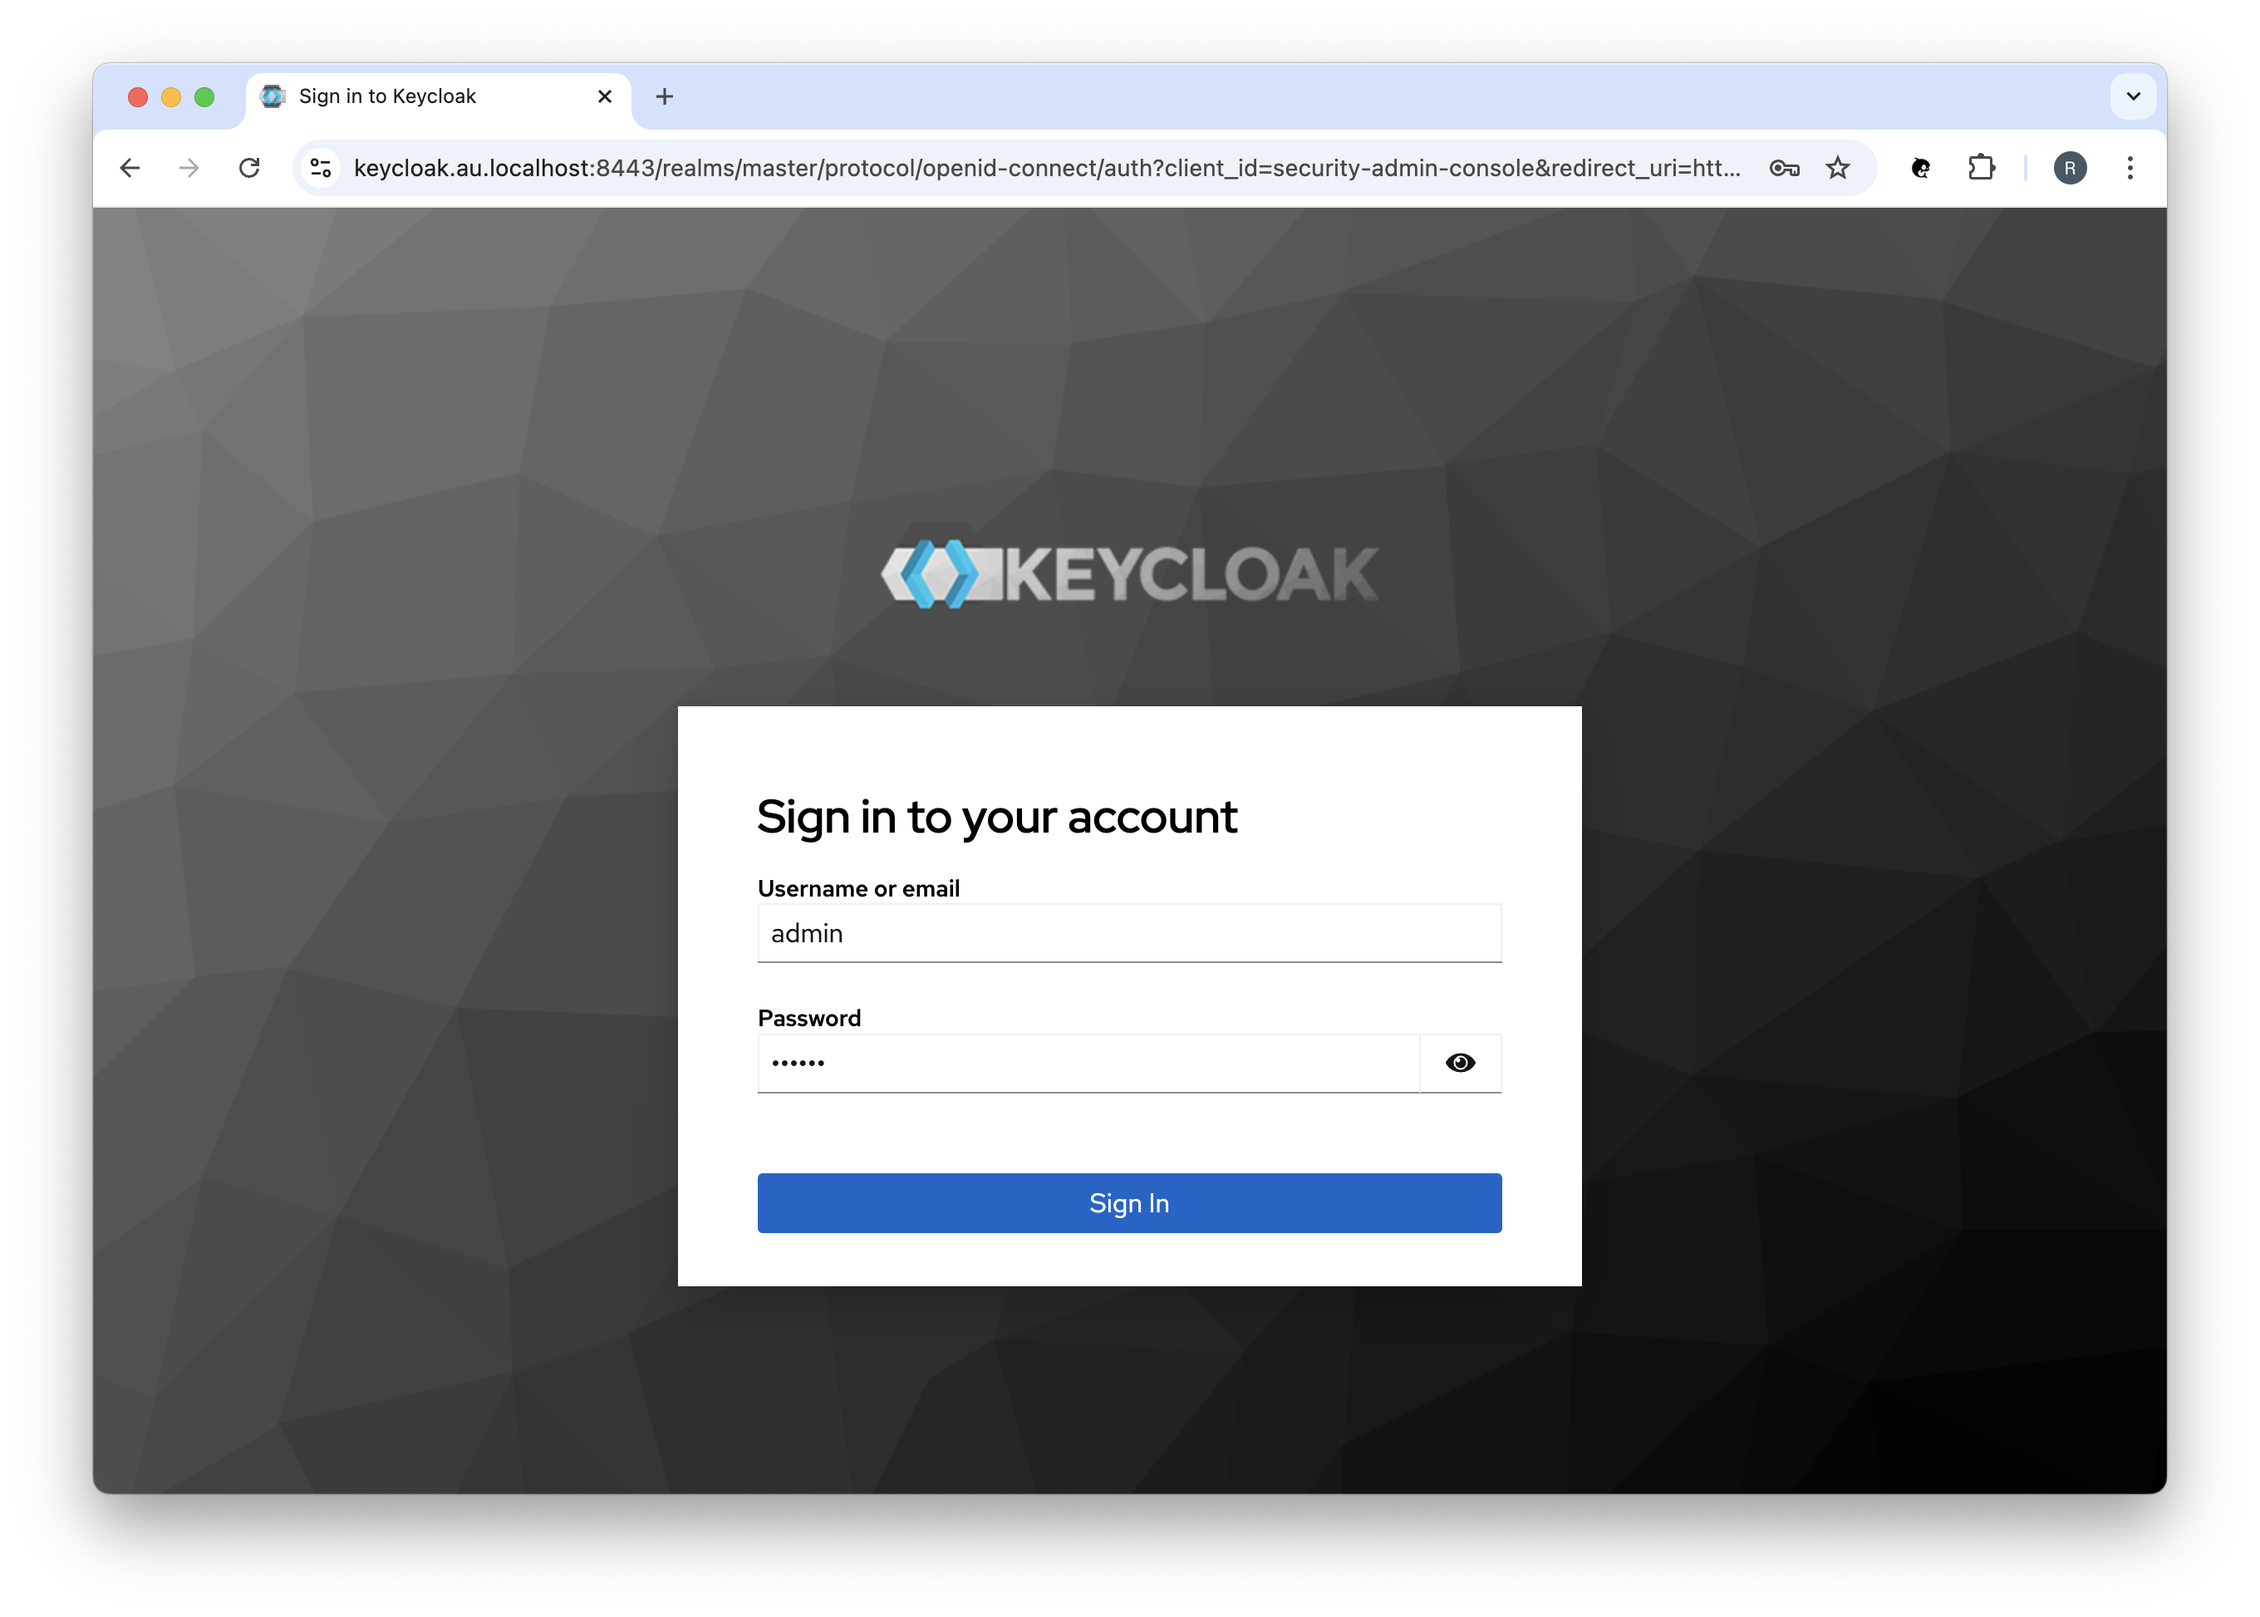
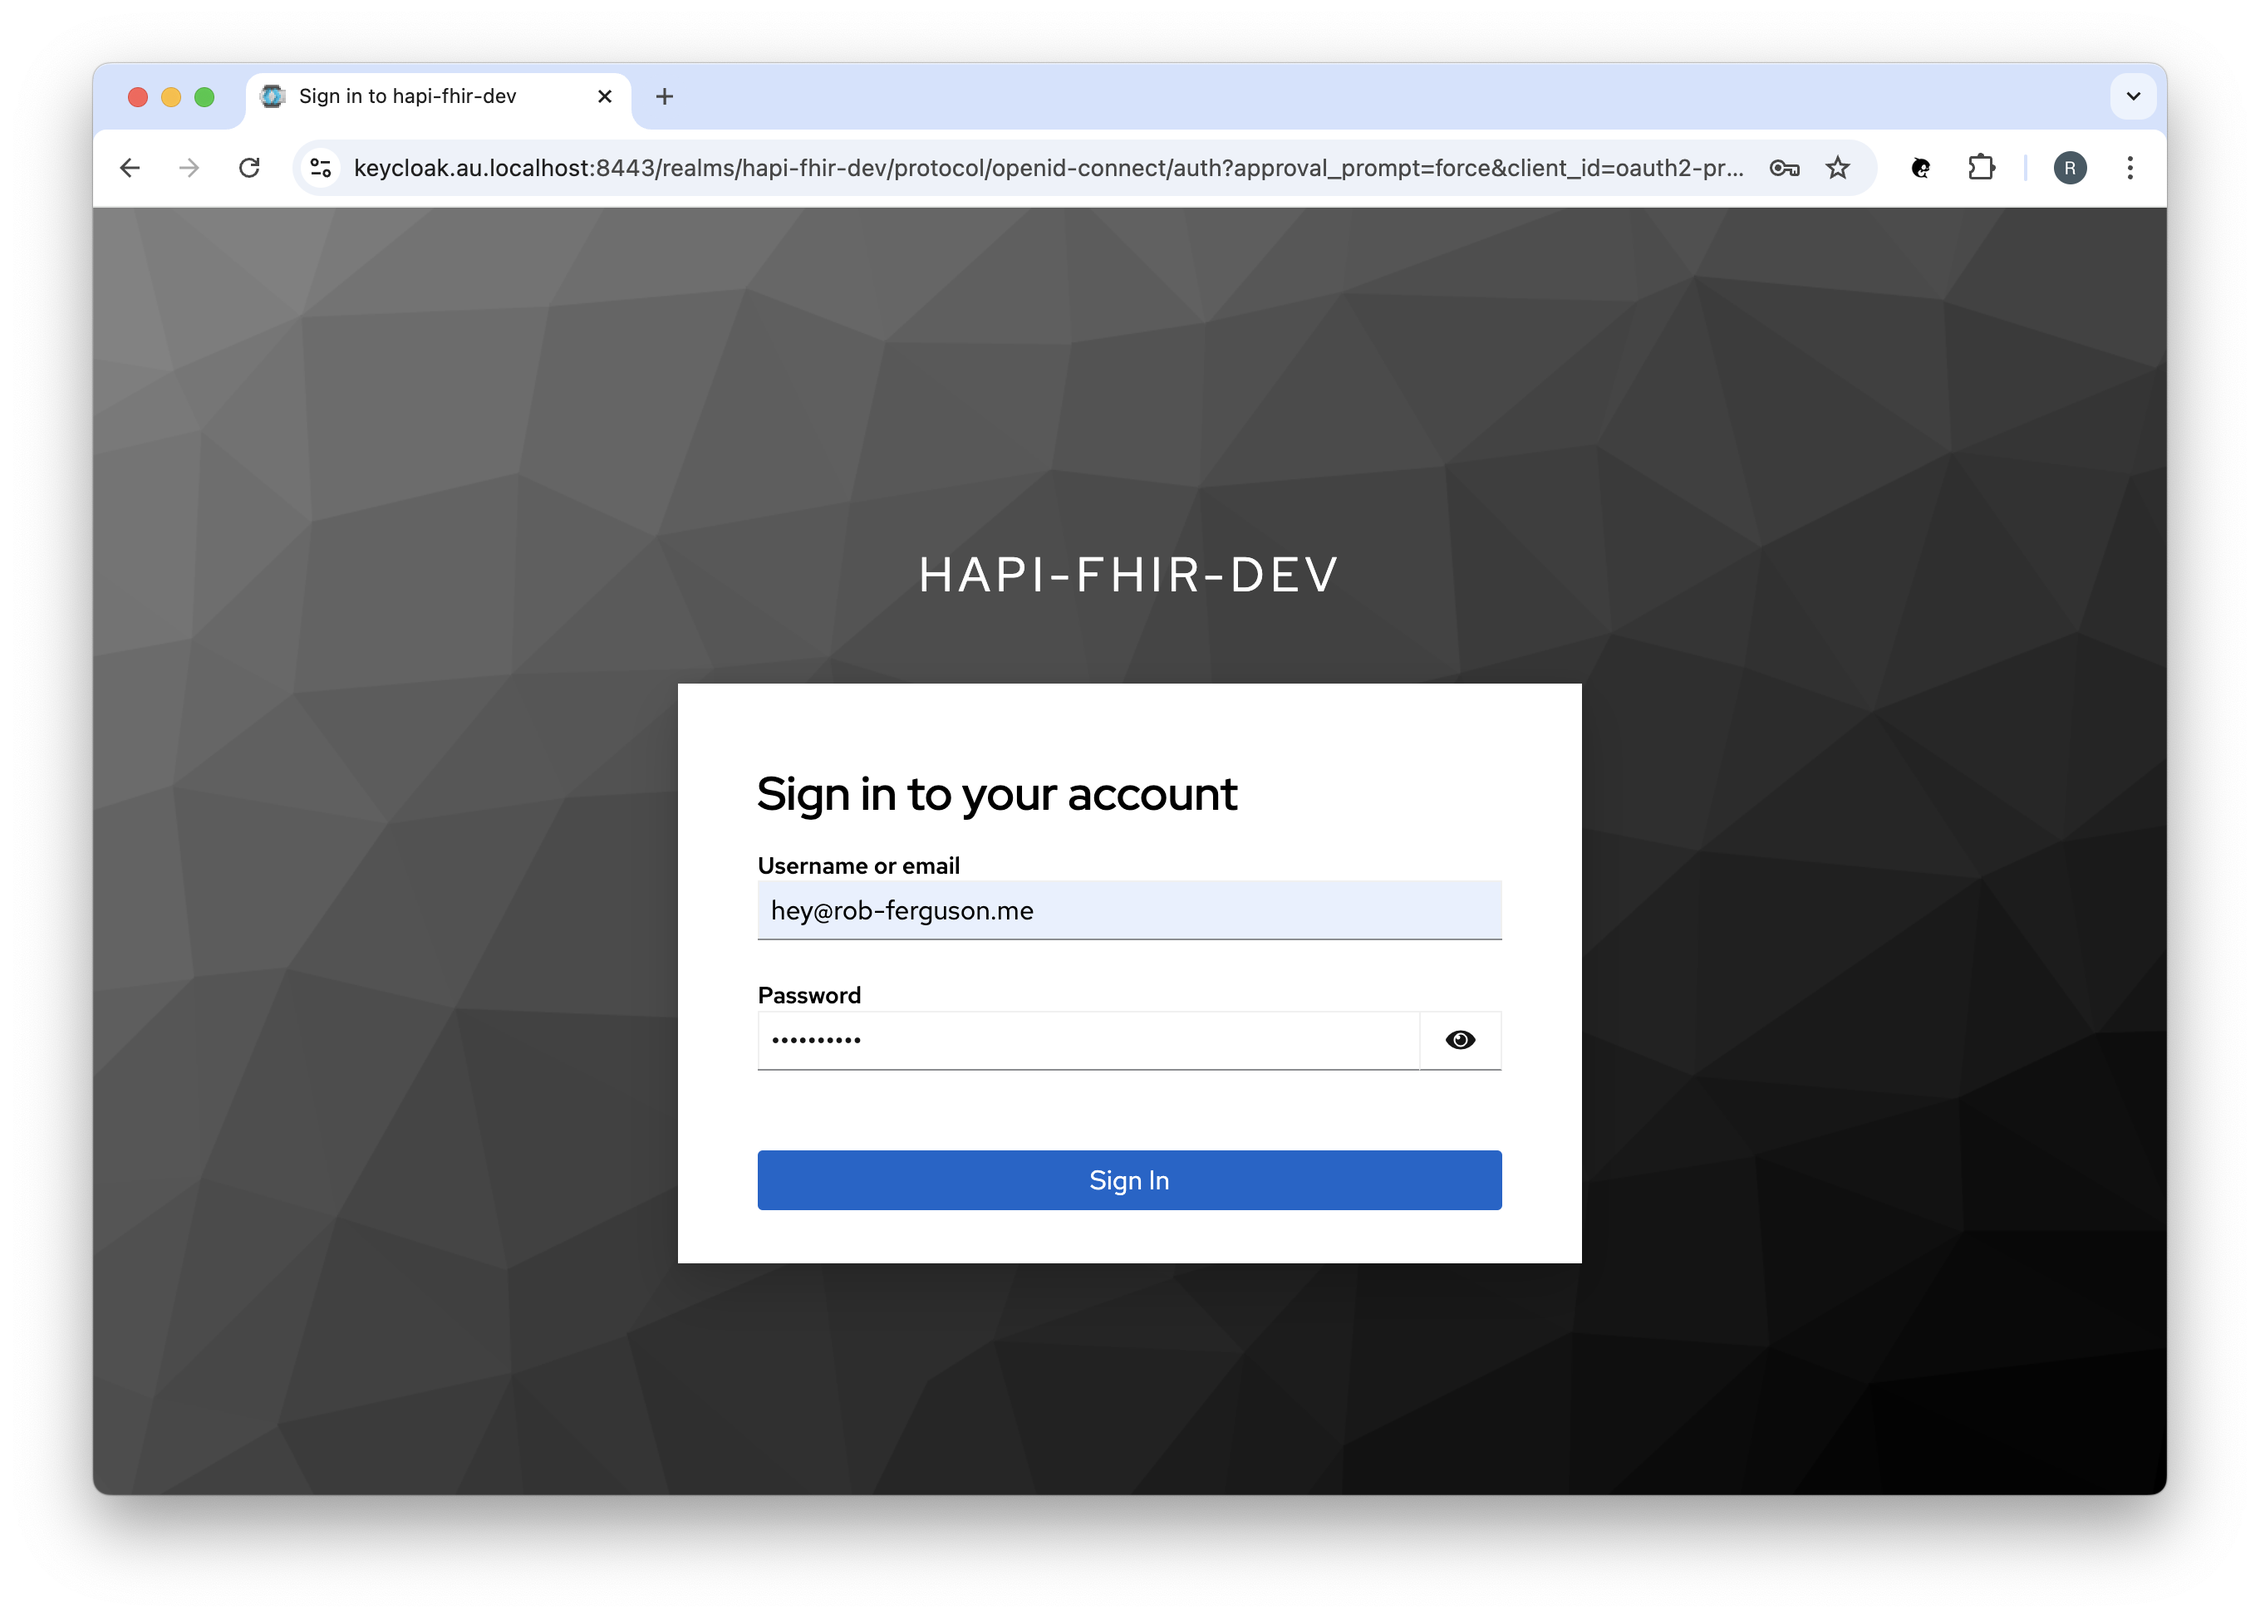
Updated the README.md

diff --git a/README.md b/README.md
@@ -94,7 +94,11 @@ Using the browser's Developer Tools you can clear the session cookie:
   <img src="./docs/quick-start-guide/hapi-fhir-cookies.png" alt="Clear session cookie"/>
 </p>
 
-The user must now Sign in again :)
+The user will be prompted to Sign in again:
+
+<p align="center">
+  <img src="./docs/quick-start-guide/keycloak-sign-in.png" alt="Sign in with your Keycloak Account"/>
+</p>
 
 #### OpenAPI (Swagger)
 
